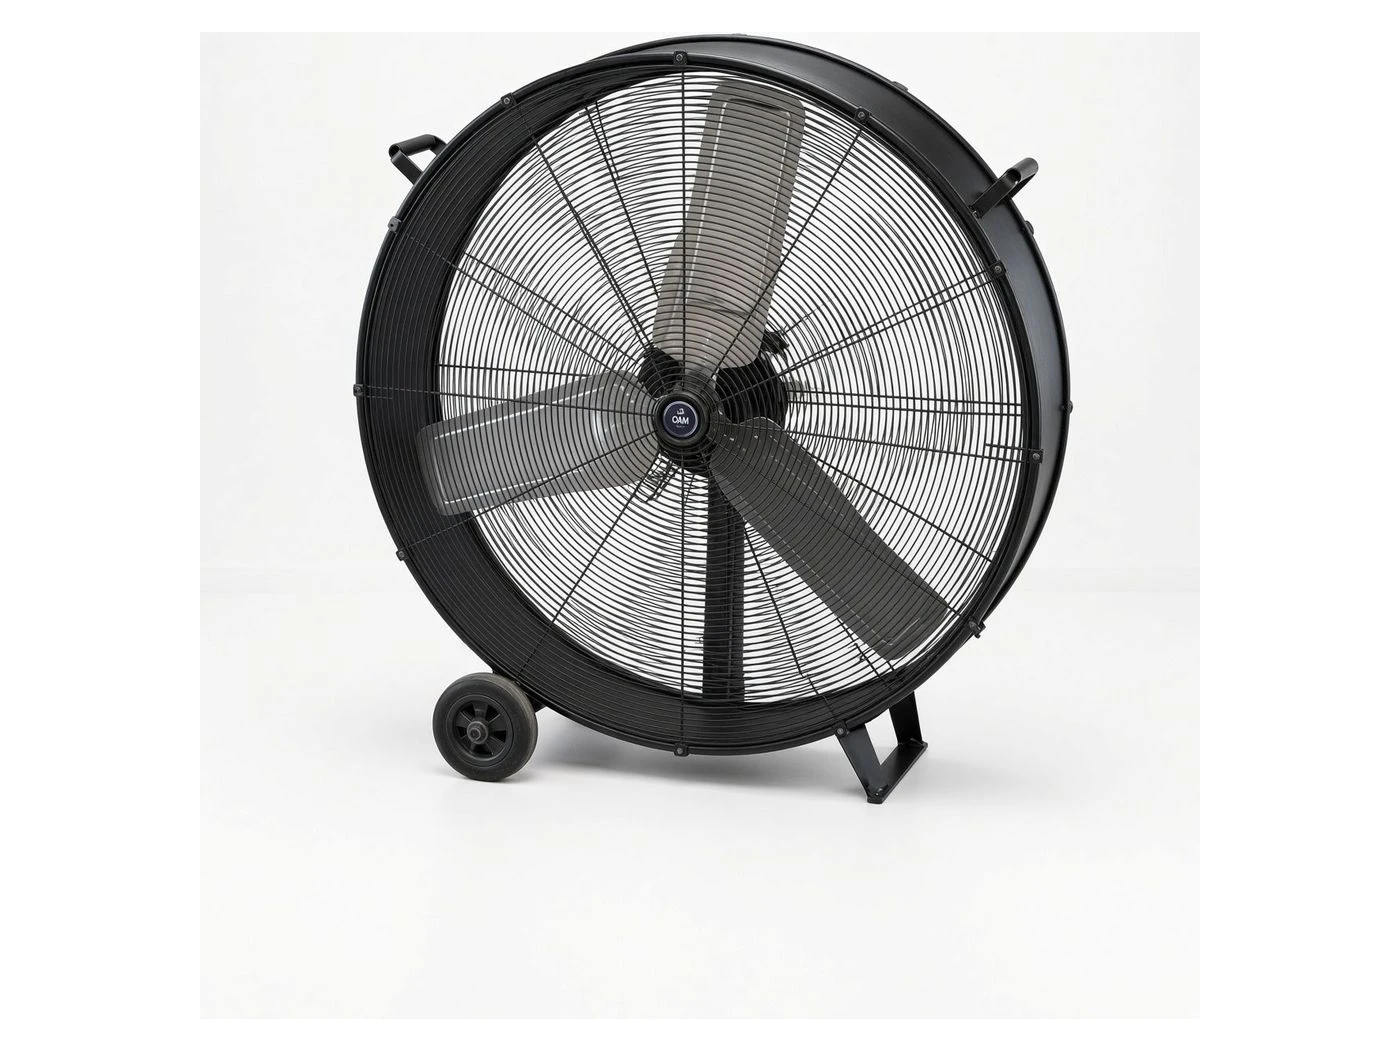
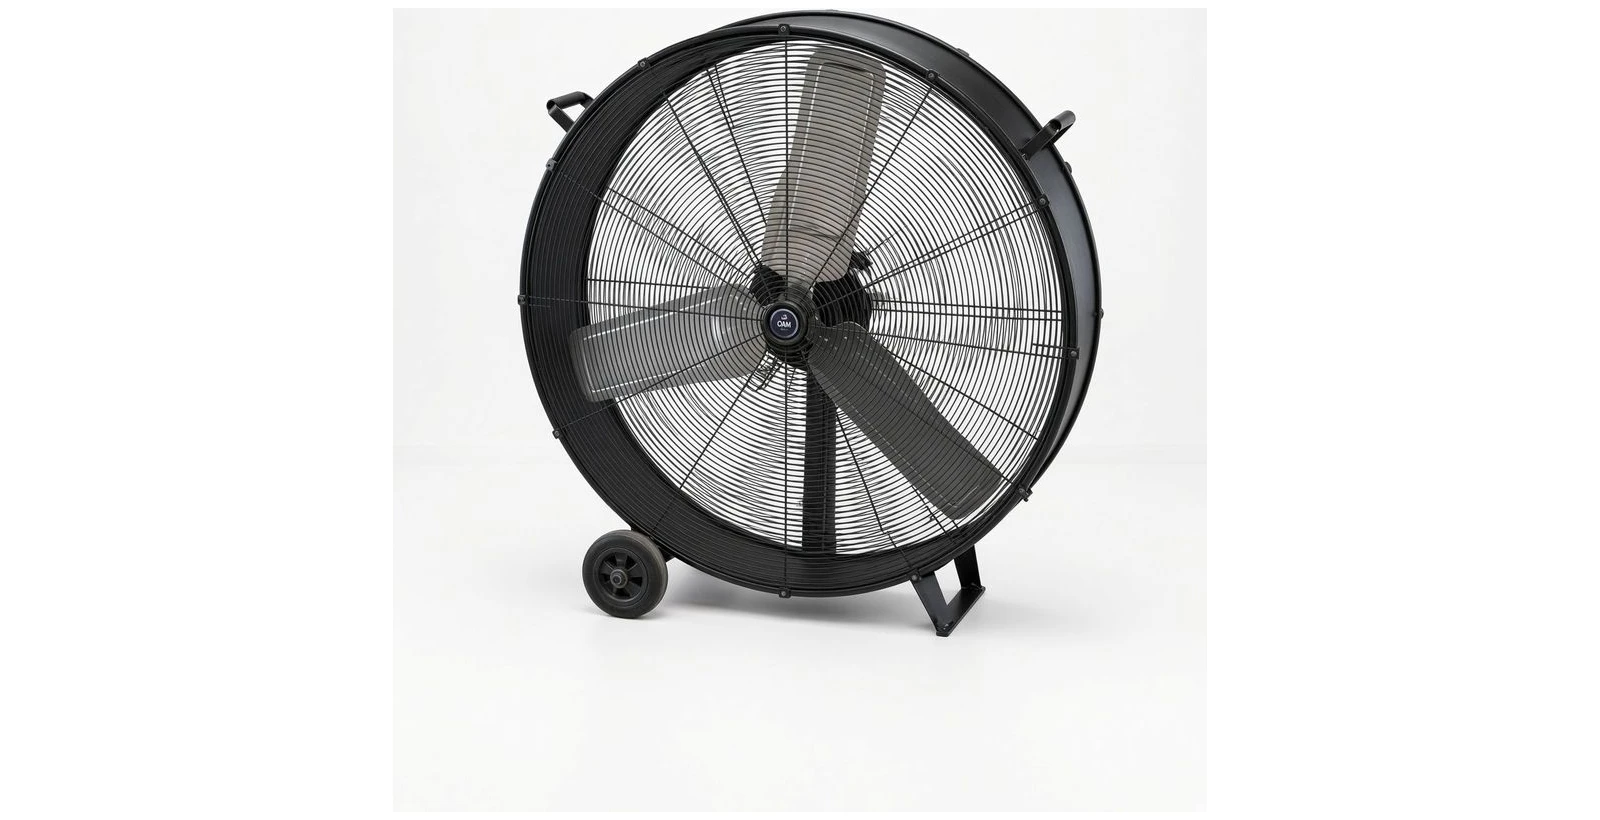
Climate/energy: landscape frames with large product + cover fill (bigger, not distant)

Changed region(s): [[0.2457, 0.0, 0.7679, 0.7927]]

diff --git a/index.html b/index.html
@@ -134,7 +134,7 @@
           </div>
         </article>
         <article class="equip-row equip-row--reverse reveal">
-          <div class="equip-row-media equip-row-media--contain media-reveal"><img src="assets/img/gallery/climatizacion.webp" alt="Climatización" loading="lazy" /></div>
+          <div class="equip-row-media media-reveal"><img src="assets/img/gallery/climatizacion.webp" alt="Climatización" loading="lazy" /></div>
           <div class="equip-row-body">
             <span class="equip-eyebrow" data-i18n="home.cat.climate.title">Climatización</span>
             <h3 data-i18n="home.diff.clima.title">Ventiladores, climatizadores y estufas</h3>
@@ -143,7 +143,7 @@
           </div>
         </article>
         <article class="equip-row reveal">
-          <div class="equip-row-media equip-row-media--contain media-reveal"><img src="assets/img/gallery/generadores.webp" alt="Generadores eléctricos CAT" loading="lazy" /></div>
+          <div class="equip-row-media media-reveal"><img src="assets/img/gallery/generadores.webp" alt="Generadores eléctricos CAT" loading="lazy" /></div>
           <div class="equip-row-body">
             <span class="equip-eyebrow" data-i18n="home.cat.energy.title">Energía</span>
             <h3 data-i18n="home.diff.energia.title">Generadores eléctricos</h3>
